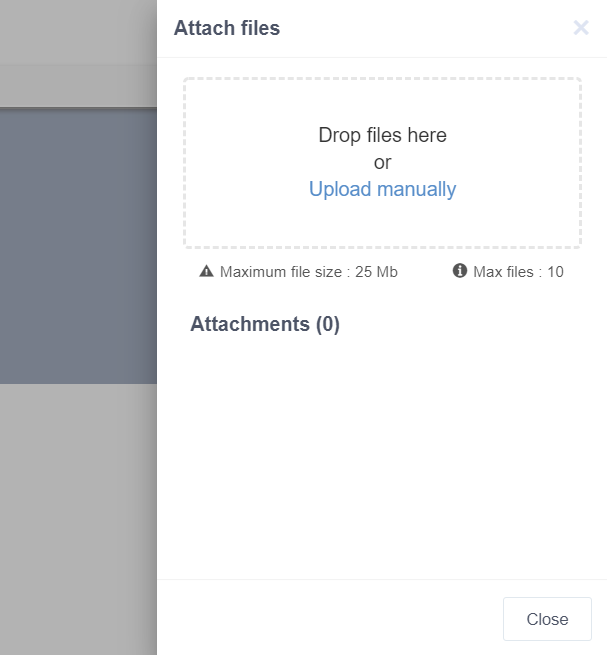
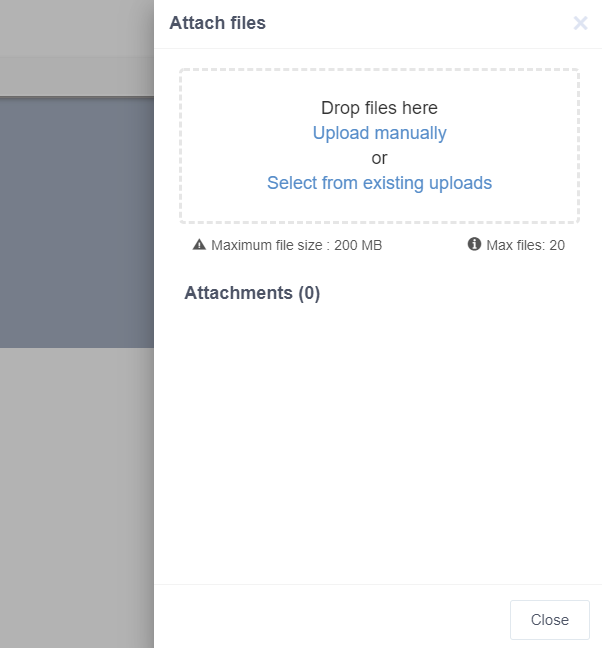
M21 documentation - updates

diff --git a/docs/GettingStarted.rst b/docs/GettingStarted.rst
@@ -1210,7 +1210,7 @@ You can insert attachments in the article's body by clicking on the paper clip i
 
 |image199|
 
-A drawer panel opens where you can either upload by selecting your files or by using a drag and drop in the dedicated area. You can attach up to 10 files and each file must not exceed 25 MB.
+A drawer panel opens where you can either upload by selecting your files from existing uploads, by uploading files manually or by using a drag and drop in the dedicated area. You can attach up to 20 files and each file must not exceed 200 MB.
 
 |image200|
 
